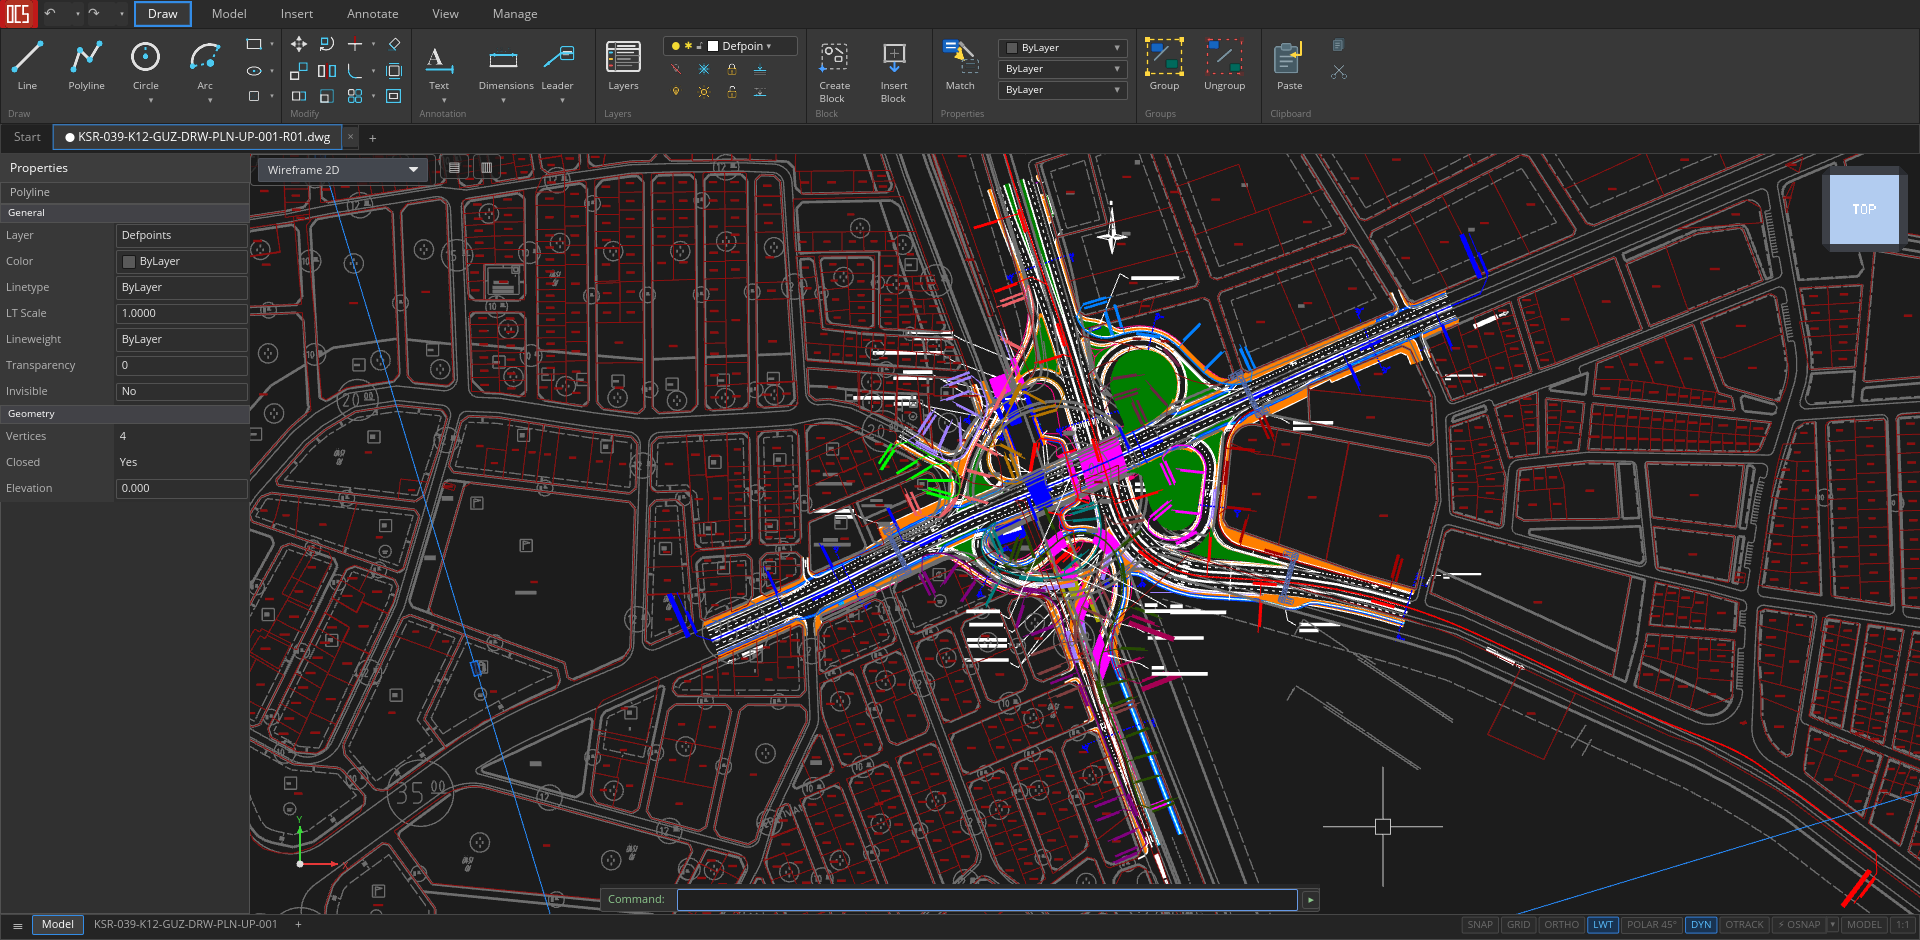
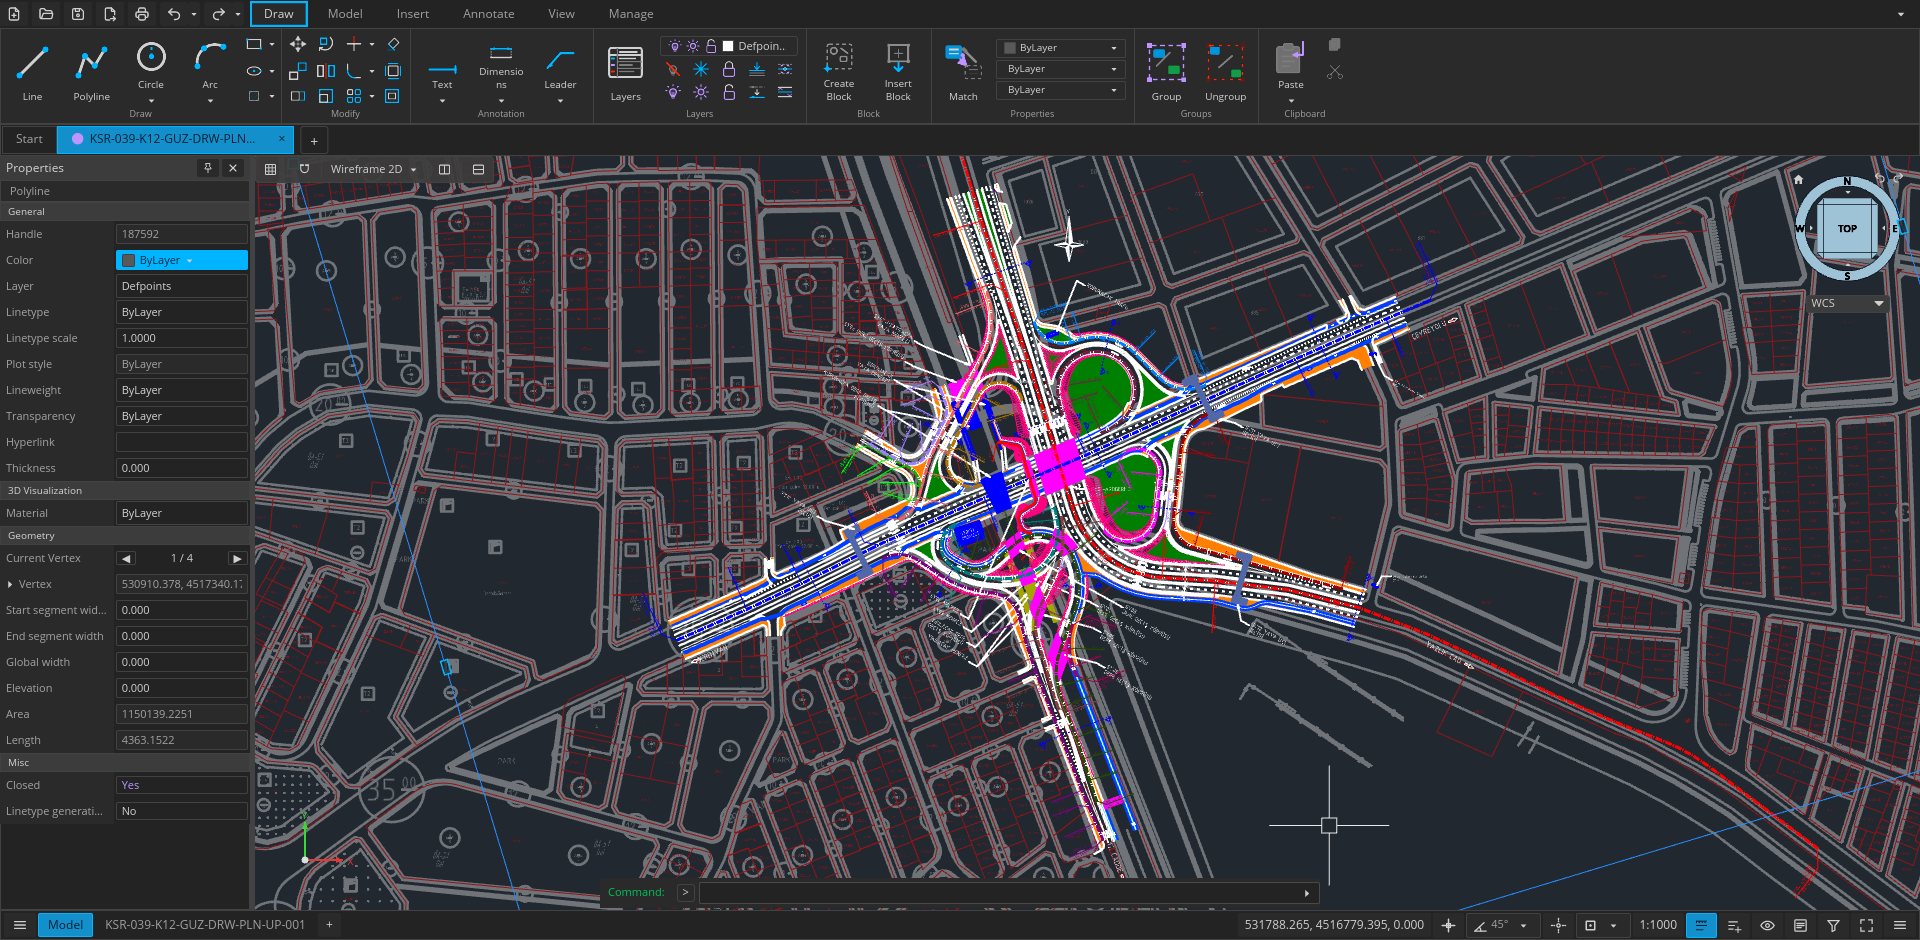
docs: update workspace screenshot

diff --git a/docs/readme/README.bg.md b/docs/readme/README.bg.md
@@ -21,7 +21,7 @@
   <a href="https://github.com/HakanSeven12/OpenCADStudio/discussions"><strong>Присъединете се към дискусията</strong></a>
 </p>
 
-<p align="center"><img src="https://github.com/user-attachments/assets/10635ad0-454b-4c87-935f-1a3a46f24ccb" alt="Работно пространство на Open CAD Studio" width="100%"></p>
+<p align="center"><img src="../../site/workspace.png" alt="Работно пространство на Open CAD Studio" width="100%"></p>
 
 ## Общ преглед
 

diff --git a/docs/readme/README.ru.md b/docs/readme/README.ru.md
@@ -19,7 +19,7 @@
   <a href="https://github.com/HakanSeven12/OpenCADStudio/discussions"><strong>Присоединиться к обсуждению</strong></a>
 </p>
 
-<p align="center"><img src="https://github.com/user-attachments/assets/10635ad0-454b-4c87-935f-1a3a46f24ccb" alt="Рабочее пространство Open CAD Studio" width="100%"></p>
+<p align="center"><img src="../../site/workspace.png" alt="Рабочее пространство Open CAD Studio" width="100%"></p>
 
 ## Обзор
 

diff --git a/docs/readme/README.hi.md b/docs/readme/README.hi.md
@@ -19,7 +19,7 @@
   <a href="https://github.com/HakanSeven12/OpenCADStudio/discussions"><strong>चर्चा में शामिल हों</strong></a>
 </p>
 
-<p align="center"><img src="https://github.com/user-attachments/assets/10635ad0-454b-4c87-935f-1a3a46f24ccb" alt="Open CAD Studio कार्यक्षेत्र" width="100%"></p>
+<p align="center"><img src="../../site/workspace.png" alt="Open CAD Studio कार्यक्षेत्र" width="100%"></p>
 
 ## परिचय
 

diff --git a/docs/readme/README.es.md b/docs/readme/README.es.md
@@ -19,7 +19,7 @@
   <a href="https://github.com/HakanSeven12/OpenCADStudio/discussions"><strong>Participar en la conversación</strong></a>
 </p>
 
-<p align="center"><img src="https://github.com/user-attachments/assets/10635ad0-454b-4c87-935f-1a3a46f24ccb" alt="Espacio de trabajo de Open CAD Studio" width="100%"></p>
+<p align="center"><img src="../../site/workspace.png" alt="Espacio de trabajo de Open CAD Studio" width="100%"></p>
 
 ## Descripción general
 

diff --git a/docs/readme/README.ar.md b/docs/readme/README.ar.md
@@ -19,7 +19,7 @@
   <a href="https://github.com/HakanSeven12/OpenCADStudio/discussions"><strong>الانضمام إلى النقاش</strong></a>
 </p>
 
-<p align="center"><img src="https://github.com/user-attachments/assets/10635ad0-454b-4c87-935f-1a3a46f24ccb" alt="مساحة عمل Open CAD Studio" width="100%"></p>
+<p align="center"><img src="../../site/workspace.png" alt="مساحة عمل Open CAD Studio" width="100%"></p>
 
 ## نظرة عامة
 

diff --git a/docs/readme/README.ja.md b/docs/readme/README.ja.md
@@ -19,7 +19,7 @@
   <a href="https://github.com/HakanSeven12/OpenCADStudio/discussions"><strong>ディスカッションに参加</strong></a>
 </p>
 
-<p align="center"><img src="https://github.com/user-attachments/assets/10635ad0-454b-4c87-935f-1a3a46f24ccb" alt="Open CAD Studio ワークスペース" width="100%"></p>
+<p align="center"><img src="../../site/workspace.png" alt="Open CAD Studio ワークスペース" width="100%"></p>
 
 ## 概要
 

diff --git a/docs/readme/README.pt-BR.md b/docs/readme/README.pt-BR.md
@@ -19,7 +19,7 @@
   <a href="https://github.com/HakanSeven12/OpenCADStudio/discussions"><strong>Participar da discussão</strong></a>
 </p>
 
-<p align="center"><img src="https://github.com/user-attachments/assets/10635ad0-454b-4c87-935f-1a3a46f24ccb" alt="Área de trabalho do Open CAD Studio" width="100%"></p>
+<p align="center"><img src="../../site/workspace.png" alt="Área de trabalho do Open CAD Studio" width="100%"></p>
 
 ## Visão geral
 

diff --git a/docs/readme/README.fr.md b/docs/readme/README.fr.md
@@ -19,7 +19,7 @@
   <a href="https://github.com/HakanSeven12/OpenCADStudio/discussions"><strong>Participer aux discussions</strong></a>
 </p>
 
-<p align="center"><img src="https://github.com/user-attachments/assets/10635ad0-454b-4c87-935f-1a3a46f24ccb" alt="Espace de travail Open CAD Studio" width="100%"></p>
+<p align="center"><img src="../../site/workspace.png" alt="Espace de travail Open CAD Studio" width="100%"></p>
 
 ## Présentation
 

diff --git a/docs/readme/README.de.md b/docs/readme/README.de.md
@@ -19,7 +19,7 @@
   <a href="https://github.com/HakanSeven12/OpenCADStudio/discussions"><strong>An Diskussionen teilnehmen</strong></a>
 </p>
 
-<p align="center"><img src="https://github.com/user-attachments/assets/10635ad0-454b-4c87-935f-1a3a46f24ccb" alt="Arbeitsbereich von Open CAD Studio" width="100%"></p>
+<p align="center"><img src="../../site/workspace.png" alt="Arbeitsbereich von Open CAD Studio" width="100%"></p>
 
 ## Überblick
 

diff --git a/docs/readme/README.it.md b/docs/readme/README.it.md
@@ -19,7 +19,7 @@
   <a href="https://github.com/HakanSeven12/OpenCADStudio/discussions"><strong>Partecipa alla discussione</strong></a>
 </p>
 
-<p align="center"><img src="https://github.com/user-attachments/assets/10635ad0-454b-4c87-935f-1a3a46f24ccb" alt="Area di lavoro di Open CAD Studio" width="100%"></p>
+<p align="center"><img src="../../site/workspace.png" alt="Area di lavoro di Open CAD Studio" width="100%"></p>
 
 ## Panoramica
 

diff --git a/docs/readme/README.hu.md b/docs/readme/README.hu.md
@@ -19,7 +19,7 @@
   <a href="https://github.com/HakanSeven12/OpenCADStudio/discussions"><strong>Csatlakozás a beszélgetéshez</strong></a>
 </p>
 
-<p align="center"><img src="https://github.com/user-attachments/assets/10635ad0-454b-4c87-935f-1a3a46f24ccb" alt="Open CAD Studio munkaterület" width="100%"></p>
+<p align="center"><img src="../../site/workspace.png" alt="Open CAD Studio munkaterület" width="100%"></p>
 
 ## Áttekintés
 

diff --git a/docs/readme/README.tr.md b/docs/readme/README.tr.md
@@ -21,7 +21,7 @@
   <a href="https://github.com/HakanSeven12/OpenCADStudio/discussions"><strong>Tartışmalara katıl</strong></a>
 </p>
 
-<p align="center"><img src="https://github.com/user-attachments/assets/10635ad0-454b-4c87-935f-1a3a46f24ccb" alt="Open CAD Studio çalışma alanı" width="100%"></p>
+<p align="center"><img src="../../site/workspace.png" alt="Open CAD Studio çalışma alanı" width="100%"></p>
 
 ## Genel bakış
 
